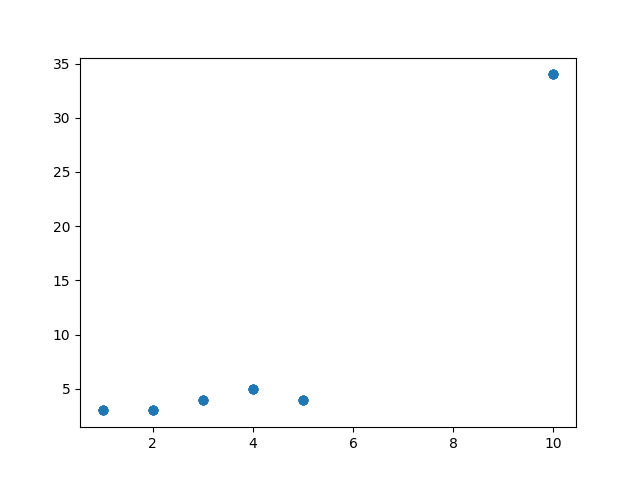
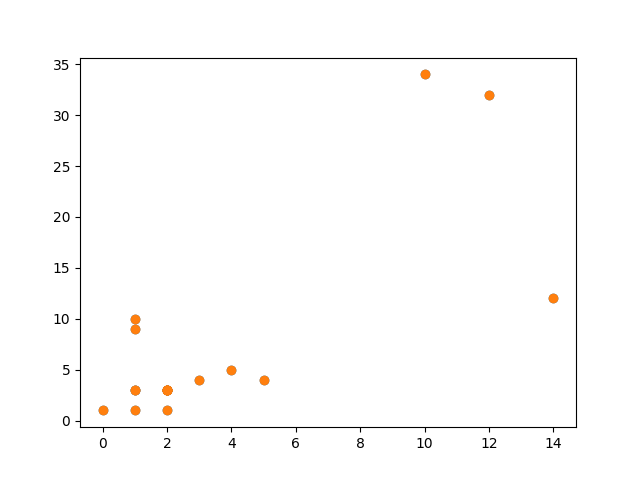
continued development of g/s .. completed "step 1"

diff --git a/convexhull.py b/convexhull.py
@@ -2,8 +2,39 @@ import matplotlib.pyplot as plt
 import numpy as np
 import scipy
 
-def cvh(fname: str):
+
+def load_data(fname: str) -> np.ndarray:
     coordinates = np.genfromtxt(fname, delimiter=",")
-    x,y = coordinates.T
-    plt.scatter(x,y)
+    x, y = coordinates.T
+    plt.scatter(x, y)
     plt.savefig('init.png')
+    return coordinates
+
+
+# Creates and saves a .gif file of finding convex hull using graham scan
+def graham_scan(coordinates: np.ndarray):
+    # step 1 of graham scan -- find the minimum y-coordinate, if more than 1, find max x value of set
+    y_min = np.amin(coordinates, axis=0)  # find minimum y value
+    y_mins = y_min.reshape([1, 2])  # numpy reshaping
+    for i in coordinates:
+        if i[1] == y_min[1]:
+            y_mins = np.append(y_mins, [i], axis=0)  # reshaping i into 2d array
+    starting_point = np.amax(y_mins, axis=0)  # finding max x value
+
+    # step 2 of graham scan -- sort points by polar angle to starting point
+    # we will use a python dictionary to store indices / angle
+    polar_angles = {}
+    for i in range(0,len(coordinates)):
+
+
+
+
+
+
+
+def main():
+    c = load_data("/Users/johnma/PycharmProjects/Convex-hull-visualization/sample.csv")
+    graham_scan(c)
+
+
+main()

diff --git a/dialog.py b/dialog.py
@@ -1,9 +1,9 @@
-from PyQt5.QtWidgets import QMainWindow, QApplication, QPushButton, QFileDialog, QLabel
-from PyQt5 import uic
-import numpy as np
+import convexhull
 import sys
 
-import convexhull
+import numpy as np
+from PyQt5 import uic
+from PyQt5.QtWidgets import QMainWindow, QApplication, QPushButton, QFileDialog, QLabel
 
 
 class UI(QMainWindow):
@@ -26,7 +26,7 @@ class UI(QMainWindow):
         coordinates = np.genfromtxt(fname[0], delimiter=",")
         if fname:
             self.coords.setText(str(coordinates))
-        convexhull.cvh(fname[0])
+        convexhull.load_data(fname[0])
         return fname[0]
 
 
